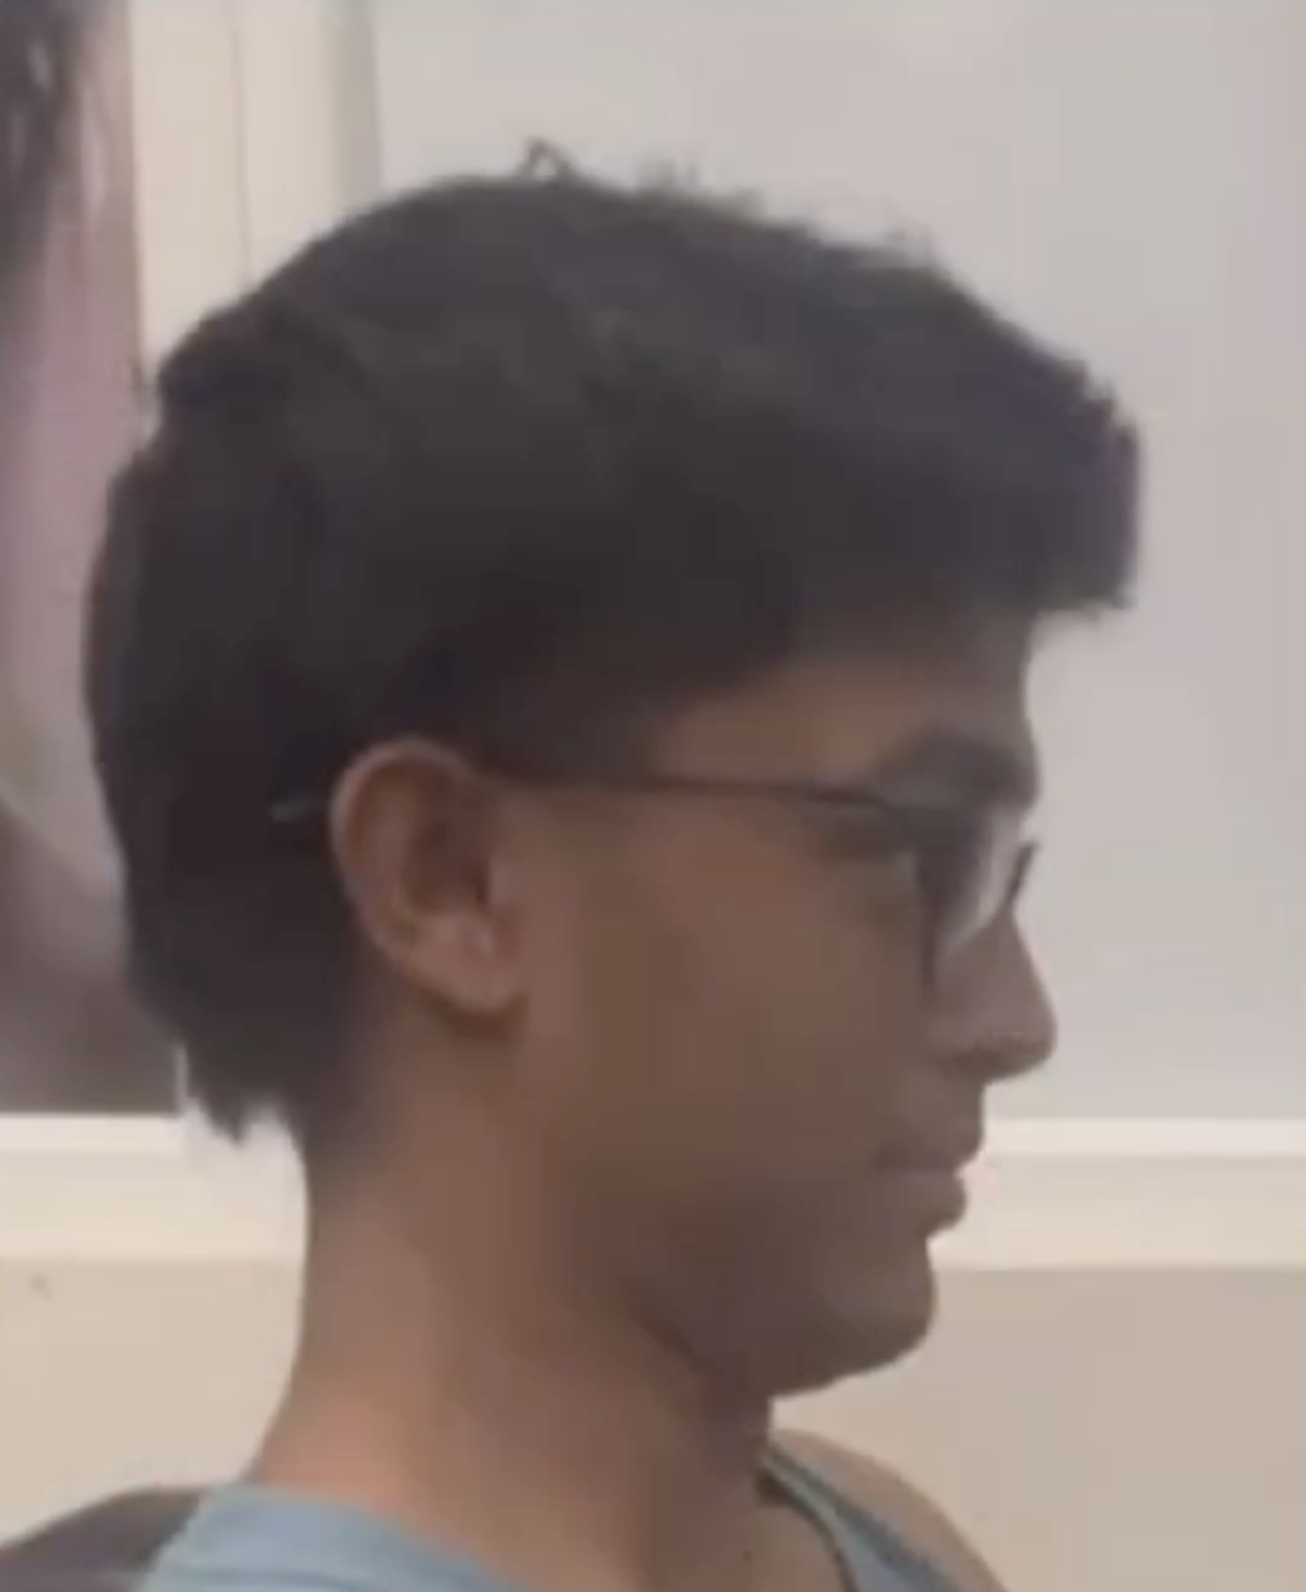
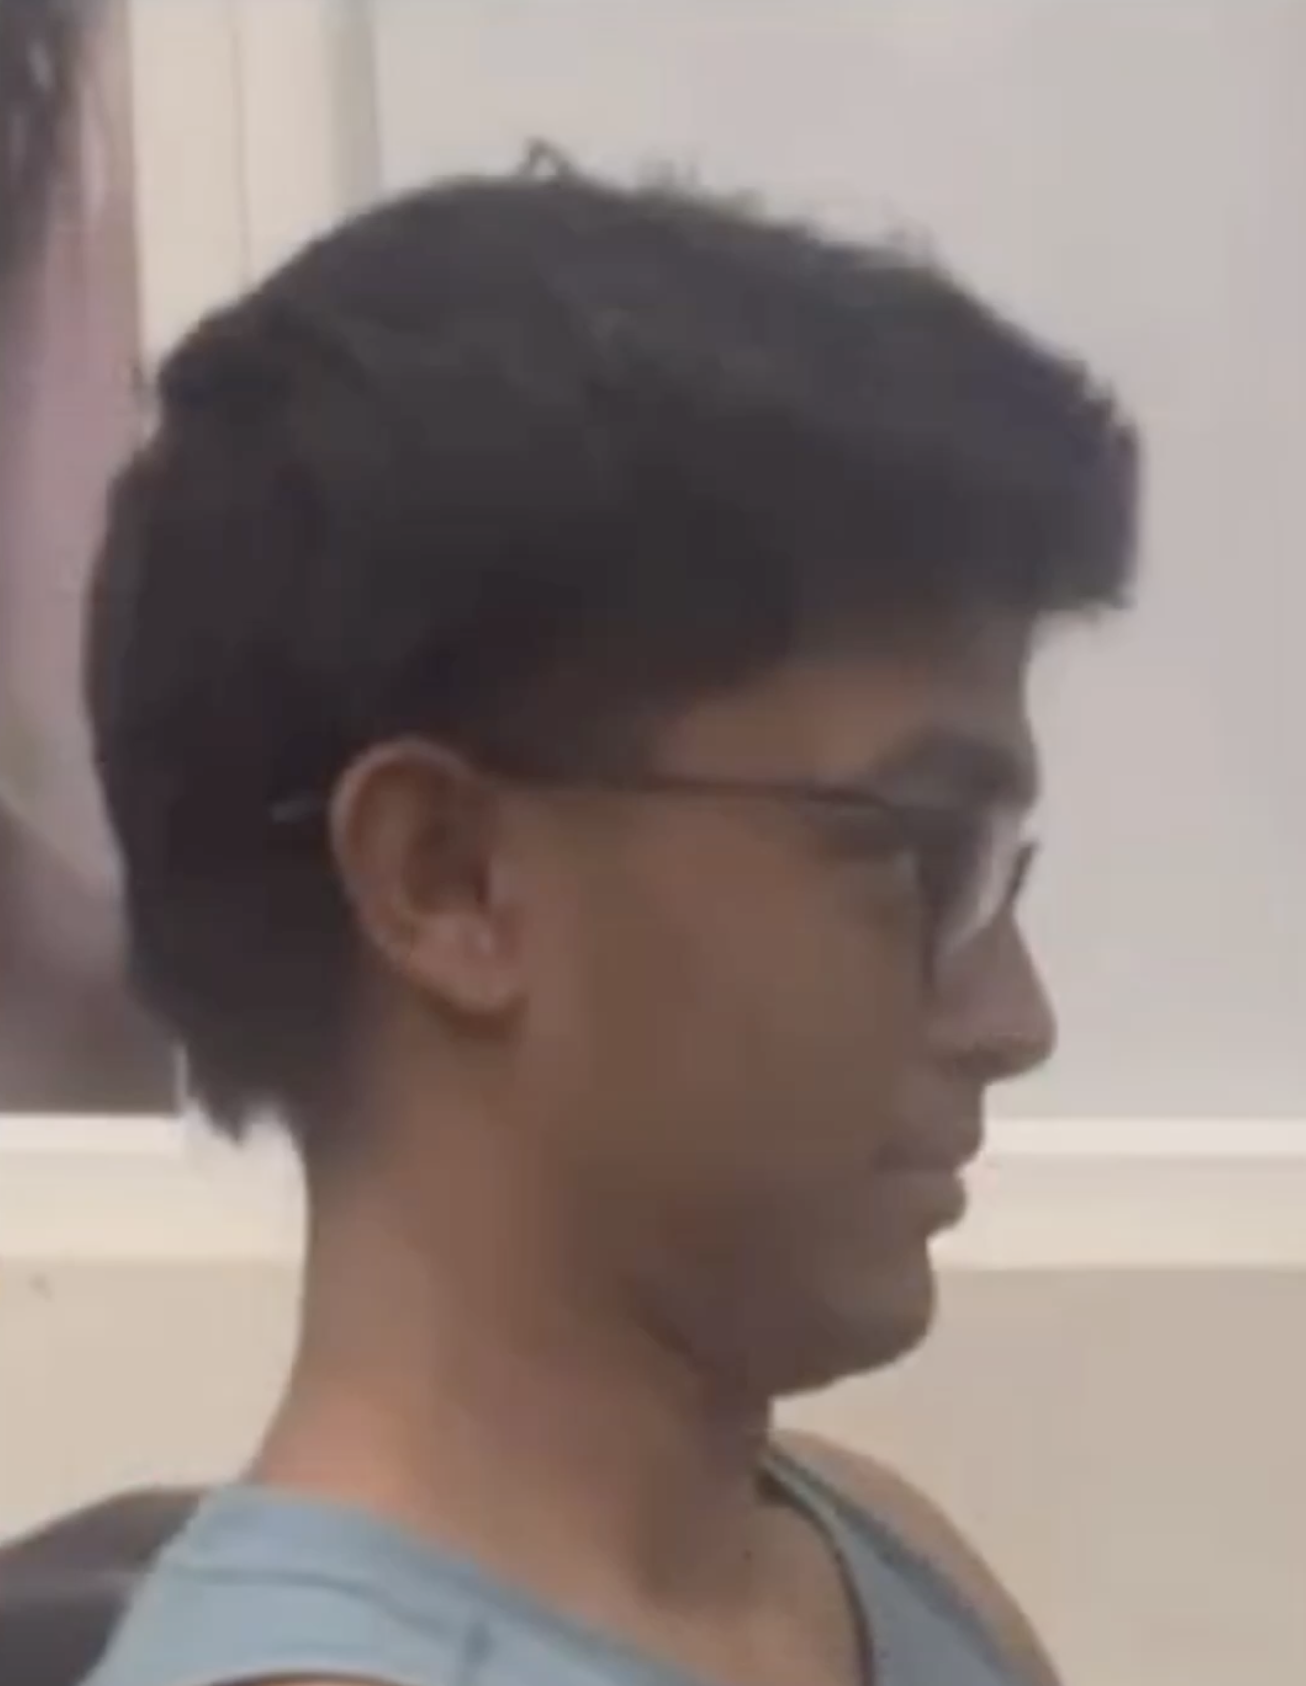
Revert aggressive CSS crop; apply only user-specified PIL crops, object-fit:contain

diff --git a/css/style.css b/css/style.css
@@ -734,32 +734,27 @@ button { cursor: pointer; background: none; border: none; font-family: inherit; 
   margin-bottom: 6px;
 }
 
-/* Consistent fixed height — object-fit:cover fills without distortion */
+/* Show full image — no cropping in CSS */
 .transform-img-wrap img {
   width: 100%;
-  height: clamp(170px, 42vw, 300px);
-  object-fit: cover;
-  object-position: center;
+  height: auto;
+  max-height: 70vh;
+  object-fit: contain;
   border-radius: 6px;
   display: block;
 }
 
-/* Physique is naturally taller */
-.results-content[data-content="physique"] .transform-img-wrap img {
-  height: clamp(220px, 56vw, 400px);
-}
-
 /* Eyes — single centred photo */
 .transform-single {
-  max-width: 420px;
+  max-width: 480px;
   margin: 0 auto;
   padding: 0 10px;
 }
 .transform-single img {
   width: 100%;
-  height: clamp(170px, 42vw, 300px);
-  object-fit: cover;
-  object-position: center;
+  height: auto;
+  max-height: 70vh;
+  object-fit: contain;
   border-radius: 6px;
   display: block;
 }

diff --git a/process_transforms.py b/process_transforms.py
@@ -1,6 +1,6 @@
 """
-Crop and rotate transformation photos as specified.
-Run from the TSM Website root directory.
+Apply only the specific crops/rotation the user requested.
+No extra normalisation — just the exact edits described.
 """
 from PIL import Image
 import os
@@ -10,102 +10,95 @@ base = "transformation"
 def load(path):
     return Image.open(path).convert("RGB")
 
-def save(img, path, ext=None):
-    if ext is None:
-        ext = os.path.splitext(path)[1].lower()
+def save(img, path):
+    ext = os.path.splitext(path)[1].lower()
     fmt = "JPEG" if ext in (".jpg", ".jpeg") else "PNG"
     img.save(path, fmt, quality=92)
-    print(f"  saved {path}  {img.size}")
+    print(f"  {path}  →  {img.size}")
 
 def crop_pct(img, top=0, bottom=0, left=0, right=0):
-    """Remove fractions from each edge."""
     w, h = img.size
-    x1 = int(w * left)
-    y1 = int(h * top)
-    x2 = int(w * (1 - right))
-    y2 = int(h * (1 - bottom))
+    x1 = int(w * left);  y1 = int(h * top)
+    x2 = int(w * (1 - right)); y2 = int(h * (1 - bottom))
     return img.crop((x1, y1, x2, y2))
 
-# ── OVERALL ────────────────────────────────────────────────────────────────
-
-print("Overall set1-after: crop top 5%, bottom 10%")
+# ── OVERALL ─────────────────────────────────────────────────────────────
+print("overall set1-after: crop top 5%, bottom 10%")
 img = load(f"{base}/overall/set1-after.png")
 img = crop_pct(img, top=0.05, bottom=0.10)
 save(img, f"{base}/overall/set1-after.png")
 
-print("Overall set3-after: crop bottom to match set3-before aspect ratio")
+print("overall set3-after: crop bottom to match set3-before aspect ratio")
 before3 = load(f"{base}/overall/set3-before.jpg")
 after3  = load(f"{base}/overall/set3-after.jpg")
-bw, bh = before3.size
-aw, ah = after3.size
-# Target displayed height = same as before when both at same display width
-# displayed_h = display_w * (img_h / img_w)  →  after_h/after_w = before_h/before_w
+bw, bh = before3.size; aw, ah = after3.size
 target_h = int(aw * bh / bw)
 if target_h < ah:
     after3 = after3.crop((0, 0, aw, target_h))
 save(after3, f"{base}/overall/set3-after.jpg")
 
-print("Overall set7-after: rotate 90° clockwise")
+print("overall set7-after: rotate 90° clockwise")
 img = load(f"{base}/overall/set7-after.png")
-img = img.rotate(-90, expand=True)   # negative angle = clockwise
+img = img.rotate(-90, expand=True)
 save(img, f"{base}/overall/set7-after.png")
 
-# ── JAWLINE ────────────────────────────────────────────────────────────────
+# ── JAWLINE ─────────────────────────────────────────────────────────────
+print("jaw set1 before+after: crop bottom 10%")
+for side in ["before", "after"]:
+    img = load(f"{base}/jaw/set1-{side}.png")
+    img = crop_pct(img, bottom=0.10)
+    save(img, f"{base}/jaw/set1-{side}.png")
 
-print("Jaw set1 + set2: crop bottom 15%")
-for s in ["set1", "set2"]:
-    for side in ["before", "after"]:
-        img = load(f"{base}/jaw/{s}-{side}.png")
-        img = crop_pct(img, bottom=0.15)
-        save(img, f"{base}/jaw/{s}-{side}.png")
+print("jaw set2 before+after: crop bottom 10%")
+for side in ["before", "after"]:
+    img = load(f"{base}/jaw/set2-{side}.png")
+    img = crop_pct(img, bottom=0.10)
+    save(img, f"{base}/jaw/set2-{side}.png")
 
-print("Jaw set4-before: crop bottom 20%")
+print("jaw set4-before: crop bottom 20%")
 img = load(f"{base}/jaw/set4-before.png")
 img = crop_pct(img, bottom=0.20)
 save(img, f"{base}/jaw/set4-before.png")
 
-# ── SKIN ───────────────────────────────────────────────────────────────────
-
-print("Skin set1-before: crop top 10%, bottom 15%")
+# ── SKIN ────────────────────────────────────────────────────────────────
+print("skin set1-before: crop top 10%, bottom 15%")
 img = load(f"{base}/skin/set1-before.jpg")
 img = crop_pct(img, top=0.10, bottom=0.15)
 save(img, f"{base}/skin/set1-before.jpg")
 
-print("Skin set1-after: crop top 10%, bottom 15%")
+print("skin set1-after: crop top 10%, bottom 15%")
 img = load(f"{base}/skin/set1-after.jpg")
 img = crop_pct(img, top=0.10, bottom=0.15)
 save(img, f"{base}/skin/set1-after.jpg")
 
-print("Skin set2-before: crop top 20%, bottom 20%")
+print("skin set2-before: crop top 20%, bottom 20%")
 img = load(f"{base}/skin/set2-before.png")
 img = crop_pct(img, top=0.20, bottom=0.20)
 save(img, f"{base}/skin/set2-before.png")
 
-print("Skin set2-after: crop bottom 10%")
+print("skin set2-after: crop bottom 10%")
 img = load(f"{base}/skin/set2-after.png")
 img = crop_pct(img, bottom=0.10)
 save(img, f"{base}/skin/set2-after.png")
 
-# ── PHYSIQUE ───────────────────────────────────────────────────────────────
-
-print("Physique set1-after: crop bottom to match set1-before height")
-before_p1 = load(f"{base}/physique/set1-before.jpg")
-after_p1  = load(f"{base}/physique/set1-after.jpg")
-bw, bh = before_p1.size
-aw, ah = after_p1.size
+# ── PHYSIQUE ────────────────────────────────────────────────────────────
+print("physique set1-after: crop bottom to match set1-before aspect ratio")
+before_p = load(f"{base}/physique/set1-before.jpg")
+after_p  = load(f"{base}/physique/set1-after.jpg")
+bw, bh = before_p.size; aw, ah = after_p.size
 target_h = int(aw * bh / bw)
 if target_h < ah:
-    after_p1 = after_p1.crop((0, 0, aw, target_h))
-save(after_p1, f"{base}/physique/set1-after.jpg")
+    after_p = after_p.crop((0, 0, aw, target_h))
+save(after_p, f"{base}/physique/set1-after.jpg")
 
-print("Physique set3-before: crop top 10%, bottom 10%")
+print("physique set3-before: crop top 10%, bottom 10%")
 img = load(f"{base}/physique/set3-before.png")
 img = crop_pct(img, top=0.10, bottom=0.10)
 save(img, f"{base}/physique/set3-before.png")
 
-print("Physique set3-after: crop top 10%, bottom 10%")
+print("physique set3-after: crop top 10%, bottom 10%")
 img = load(f"{base}/physique/set3-after.png")
 img = crop_pct(img, top=0.10, bottom=0.10)
 save(img, f"{base}/physique/set3-after.png")
 
-print("\nAll done.")
+print("\nDone.")
